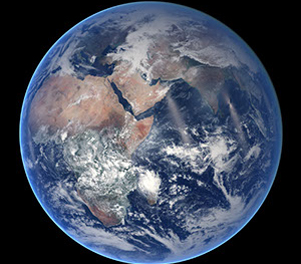
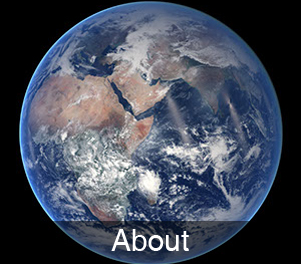
tiles fix on mobile

Changed region(s): [[0.1794, 0.8182, 0.8372, 1.0]]

diff --git a/index.html b/index.html
@@ -144,7 +144,7 @@
        <div class="content">
    
       <div class="content-overlay"></div>
-      <img class="content-image" src="img/about.jpg">
+      <img class="content-image" src="img/about.jpg"><span><p>About</p></span>
       <div class="content-details fadeIn-bottom">
         <h3 class="content-title"><a href="#">About</a></h3><hr>
         <p class="content-text">Read more about the aims of this course, and who it is supported by</p>

diff --git a/css/styles.css b/css/styles.css
@@ -133,6 +133,8 @@
   top: 50%;
   left: 50%;
   opacity: 1;
+  width: 301px;
+  height: 264px;
 }
 
 .content-details h3{
@@ -155,6 +157,13 @@
 .content-text {
 	font-size: 110% !important;
 }
+
+a, a:hover {
+	color: #fff;
+	text-decoration: none;
+}
+
+
 
 
 /********** Large devices only **********/
